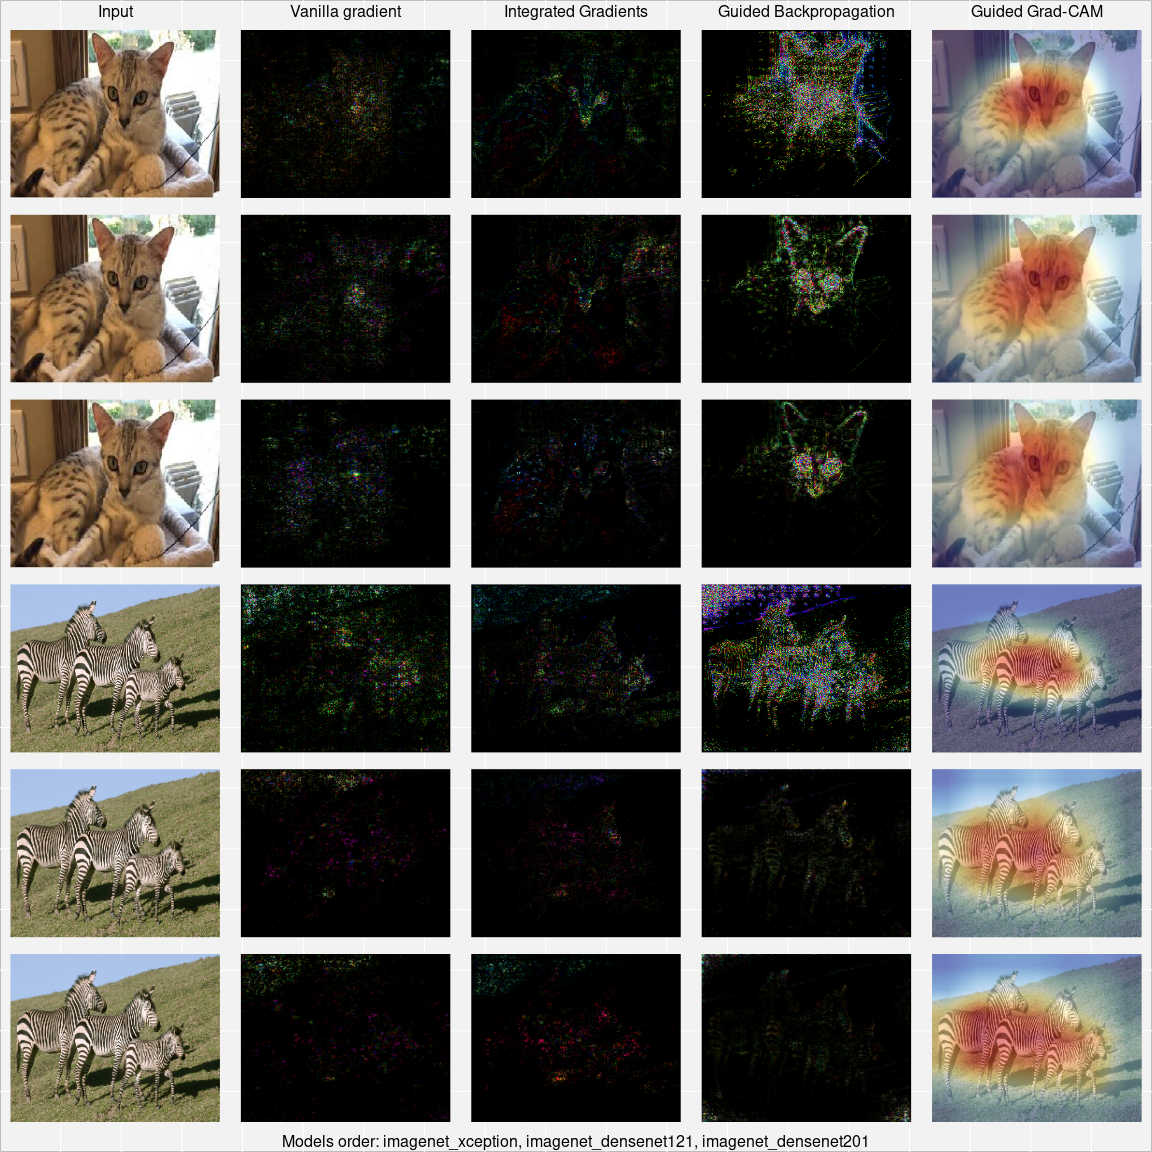
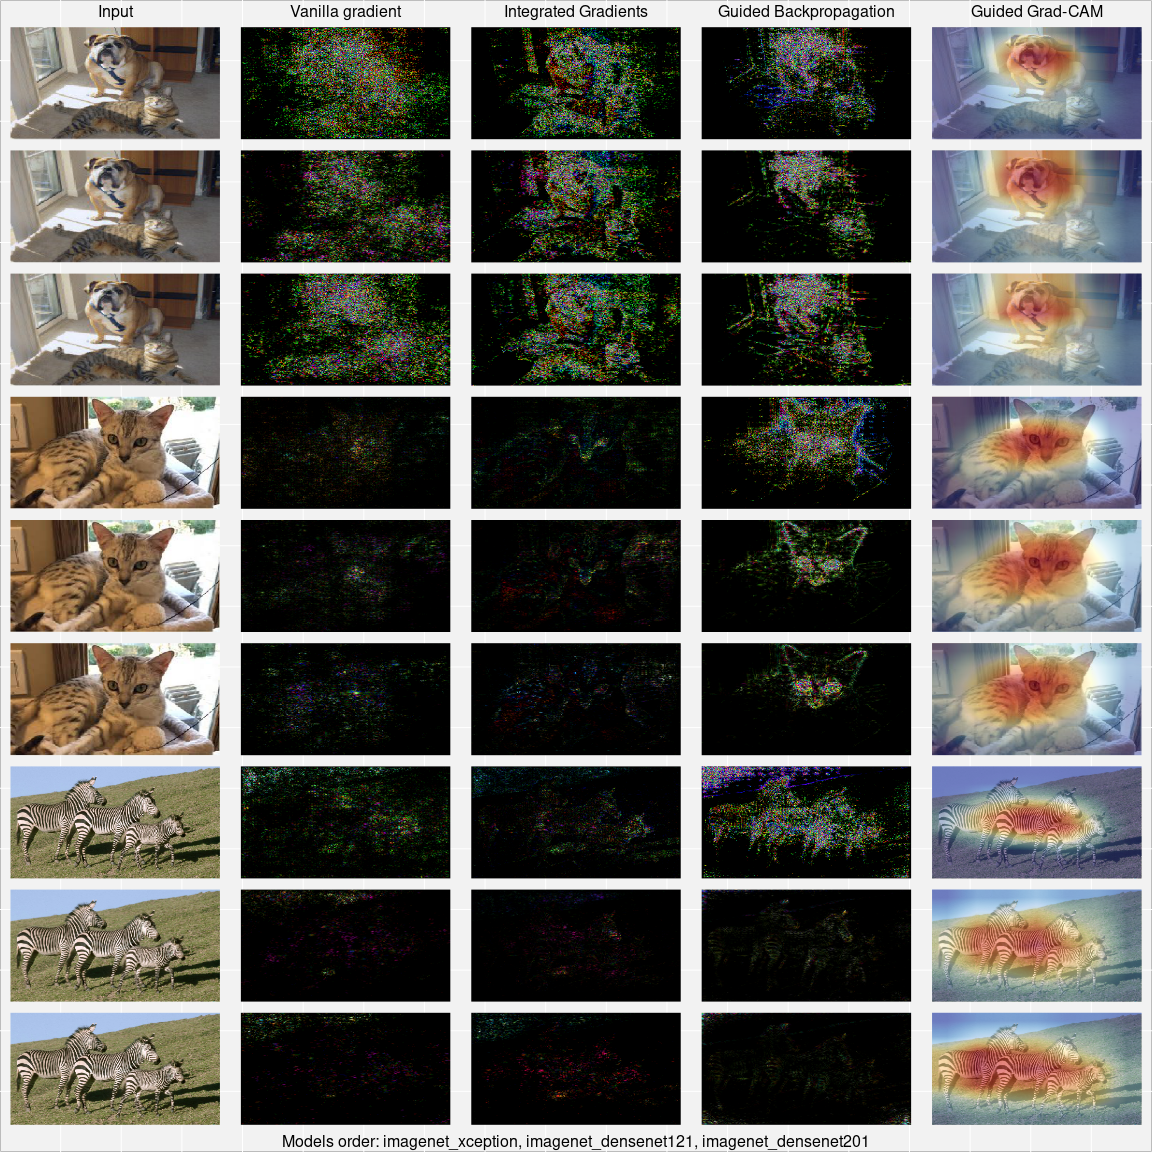
Update readme, basic example

diff --git a/README.md b/README.md
@@ -106,13 +106,14 @@ input_imgs_paths <- list.files(system.file("extdata", "images", package = "sauro
 
 explanations <- explainer$explain(input_imgs_paths = input_imgs_paths,
                                   class_index = NULL,
+                                  batch_size = 1,
                                   methods = c("V", "IG",  "GB", "GGC"),
                                   steps = 10, # Number of Integrated Gradients steps
                                   grayscale = FALSE # RGB or Gray gradients
 )
 
 explanations
-#> CNNexplanations object contains explanations for 2 images for 1 model.
+#> CNNexplanations object contains explanations for 3 images for 1 model.
 ```
 
 You can get raw explanations and metadata from `CNNexplanations` object
@@ -138,41 +139,42 @@ explanations$get_metadata()
 #> [1] "V"   "IG"  "GB"  "GGC"
 #> 
 #> $input_imgs_paths
-#> [1] "/home/maju116/R/x86_64-pc-linux-gnu-library/4.0/sauron/extdata/images/cat.jpeg"  
-#> [2] "/home/maju116/R/x86_64-pc-linux-gnu-library/4.0/sauron/extdata/images/zebras.jpg"
+#> [1] "/home/maju116/R/x86_64-pc-linux-gnu-library/4.0/sauron/extdata/images/cat_and_dog.jpg"
+#> [2] "/home/maju116/R/x86_64-pc-linux-gnu-library/4.0/sauron/extdata/images/cat.jpeg"       
+#> [3] "/home/maju116/R/x86_64-pc-linux-gnu-library/4.0/sauron/extdata/images/zebras.jpg"     
 #> 
 #> $n_imgs
-#> [1] 2
+#> [1] 3
 
 raw_explanations <- explanations$get_explanations()
 str(raw_explanations)
 #> List of 1
 #>  $ imagenet_xception:List of 5
-#>   ..$ Input: num [1:2, 1:299, 1:299, 1:3] 134 170 134 168 134 170 135 168 135 167 ...
+#>   ..$ Input: num [1:3, 1:299, 1:299, 1:3] 147 134 170 147 134 168 144 134 170 144 ...
 #>   .. ..- attr(*, "dimnames")=List of 4
 #>   .. .. ..$ : NULL
 #>   .. .. ..$ : NULL
 #>   .. .. ..$ : NULL
 #>   .. .. ..$ : NULL
-#>   ..$ V    : int [1:2, 1:299, 1:299, 1:3] 0 0 0 0 0 0 0 0 0 0 ...
+#>   ..$ V    : int [1:3, 1:299, 1:299, 1:3] 0 0 0 0 0 0 0 0 0 0 ...
 #>   .. ..- attr(*, "dimnames")=List of 4
 #>   .. .. ..$ : NULL
 #>   .. .. ..$ : NULL
 #>   .. .. ..$ : NULL
 #>   .. .. ..$ : NULL
-#>   ..$ IG   : int [1:2, 1:299, 1:299, 1:3] 0 0 0 0 0 0 0 0 0 0 ...
+#>   ..$ IG   : int [1:3, 1:299, 1:299, 1:3] 0 0 0 0 0 0 0 0 0 0 ...
 #>   .. ..- attr(*, "dimnames")=List of 4
 #>   .. .. ..$ : NULL
 #>   .. .. ..$ : NULL
 #>   .. .. ..$ : NULL
 #>   .. .. ..$ : NULL
-#>   ..$ GB   : int [1:2, 1:299, 1:299, 1:3] 0 2 0 111 0 28 0 151 0 231 ...
+#>   ..$ GB   : int [1:3, 1:299, 1:299, 1:3] 0 0 2 0 0 111 0 0 28 0 ...
 #>   .. ..- attr(*, "dimnames")=List of 4
 #>   .. .. ..$ : NULL
 #>   .. .. ..$ : NULL
 #>   .. .. ..$ : NULL
 #>   .. .. ..$ : NULL
-#>   ..$ GGC  : num [1:2, 1:299, 1:299, 1] 0 0.000455 0 0.000455 0 ...
+#>   ..$ GGC  : num [1:3, 1:299, 1:299, 1] 7.13e-05 0.00 4.55e-04 7.13e-05 0.00 ...
 #>   .. ..- attr(*, "dimnames")=List of 4
 #>   .. .. ..$ : NULL
 #>   .. .. ..$ : NULL
@@ -213,6 +215,7 @@ explainers <- CNNexplainers$new(explainer, explainer2, explainer3)
 
 explanations123 <- explainers$explain(input_imgs_paths = input_imgs_paths,
                                       class_index = NULL,
+                                      batch_size = 1,
                                       methods = c("V", "IG",  "GB", "GGC"),
                                       steps = 10,
                                       grayscale = FALSE
@@ -243,11 +246,12 @@ explanations123$get_metadata()
 #> [1] "V"   "IG"  "GB"  "GGC"
 #> 
 #> $input_imgs_paths
-#> [1] "/home/maju116/R/x86_64-pc-linux-gnu-library/4.0/sauron/extdata/images/cat.jpeg"  
-#> [2] "/home/maju116/R/x86_64-pc-linux-gnu-library/4.0/sauron/extdata/images/zebras.jpg"
+#> [1] "/home/maju116/R/x86_64-pc-linux-gnu-library/4.0/sauron/extdata/images/cat_and_dog.jpg"
+#> [2] "/home/maju116/R/x86_64-pc-linux-gnu-library/4.0/sauron/extdata/images/cat.jpeg"       
+#> [3] "/home/maju116/R/x86_64-pc-linux-gnu-library/4.0/sauron/extdata/images/zebras.jpg"     
 #> 
 #> $n_imgs
-#> [1] 2
+#> [1] 3
 
 explanations123$plot_and_save(combine_plots = TRUE,
                               output_path = NULL,
@@ -264,6 +268,7 @@ them:
 ``` r
 explanations2 <- explainer2$explain(input_imgs_paths = input_imgs_paths,
                                     class_index = NULL,
+                                    batch_size = 1,
                                     methods = c("V", "IG",  "GB", "GGC"),
                                     steps = 10,
                                     grayscale = FALSE
@@ -271,6 +276,7 @@ explanations2 <- explainer2$explain(input_imgs_paths = input_imgs_paths,
 
 explanations3 <- explainer3$explain(input_imgs_paths = input_imgs_paths,
                                     class_index = NULL,
+                                    batch_size = 1,
                                     methods = c("V", "IG",  "GB", "GGC"),
                                     steps = 10,
                                     grayscale = FALSE
@@ -303,11 +309,12 @@ explanations$get_metadata()
 #> [1] "V"   "IG"  "GB"  "GGC"
 #> 
 #> $input_imgs_paths
-#> [1] "/home/maju116/R/x86_64-pc-linux-gnu-library/4.0/sauron/extdata/images/cat.jpeg"  
-#> [2] "/home/maju116/R/x86_64-pc-linux-gnu-library/4.0/sauron/extdata/images/zebras.jpg"
+#> [1] "/home/maju116/R/x86_64-pc-linux-gnu-library/4.0/sauron/extdata/images/cat_and_dog.jpg"
+#> [2] "/home/maju116/R/x86_64-pc-linux-gnu-library/4.0/sauron/extdata/images/cat.jpeg"       
+#> [3] "/home/maju116/R/x86_64-pc-linux-gnu-library/4.0/sauron/extdata/images/zebras.jpg"     
 #> 
 #> $n_imgs
-#> [1] 2
+#> [1] 3
 
 explanations$plot_and_save(combine_plots = TRUE,
                            output_path = NULL,
